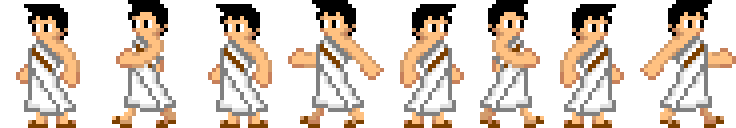
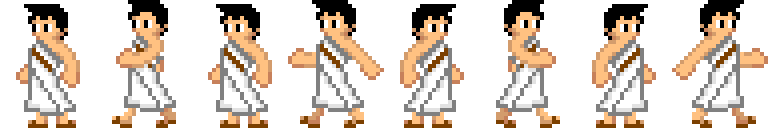
Final Sprite sheet and WORKING CHARACTER MOVEMENT!!!

diff --git a/js/game.js b/js/game.js
@@ -25,8 +25,9 @@ window.onload = function() {
 
 //Preload function, where we can load all the assets that will be used
   function preload(){
-	  game.load.spritesheet('player', 'assets/Character.png', 25, 36); //Player sprite
-    game.load.image('bg', 'assets/background1colour.png');    //background with colour
+	  game.load.spritesheet('player', 'assets/Character.png', 96, 128); //Player sprite
+    game.load.spritesheet('MenuP', 'assets/Character.png', 96, 128);
+    game.load.image('bg', 'assets/bg1.1colour.png');    //background with colour
     game.load.image('button', 'assets/button.png'); //Start button
     game.load.image('menu', 'assets/menu.png'); //Menu background
     game.load.image('rock', 'assets/rock.png'); //rock
@@ -58,13 +59,13 @@ window.onload = function() {
     'jump': Phaser.KeyCode.W,
     'left': Phaser.KeyCode.A,
     'right': Phaser.KeyCode.D,
-    'crouch': Phaser.KeyCode.S
+    'crouch': Phaser.KeyCode.S,
     'pause': Phaser.KeyCode.SPACEBAR
   }
 );
-player.animations.add('left', [0,1,2], 10, true);
+player.animations.add('left', [0,1,2,3], 8, true);
 //player.animations.add('right', [5,6,7,8], 10, true
-player.animations.add('right', [4,5,6], 10, true);
+player.animations.add('right', [4,5,6,7], 8, true);
 } //END of create
 
 //Update function, runs every frame
@@ -72,9 +73,9 @@ player.animations.add('right', [4,5,6], 10, true);
 
  if(gameState == 0) {  //Game menu code
       //Animate the player moving across the bottom of the screen
-      player.x++; //Move the player right
-      if (player.x > game.world.width) {  //If the player has moved off the right edge of the screen
-        player.x = -48; //Place the player just to the left of the screen
+      MenuP.x++; //Move the player right
+      if (MenuP.x > game.world.width) {  //If the player has moved off the right edge of the screen
+        MenuP.x = -48; //Place the player just to the left of the screen
       }
     } else if(gameState == 1) {  //Game code
 
@@ -128,13 +129,18 @@ if(controls.left.isDown){
     text.anchor.setTo(0.5,0.5);
     environmentGroup.add(text);
 
+//note this is a test sprite (Do not remove or use)
+    //temp = game.add.sprite(50,50,'player');
+    //temp.animations.add('left', [1,2,3,4,5,6,7], 5, true);
+    //temp.animations.play('left');
+
     //Do some initial player set up
-    player = game.add.sprite(-48, game.world.height-125, 'player');
+    MenuP = game.add.sprite(-48, game.world.height-125, 'player');
     //player.body.collideWorldBounds = true;
     //Add animation sequences to the player object
-    player.animations.add('right', [4,5,6], 10, true);
-    player.animations.play('right');  //Start playing the 'right' animation
-    playerGroup.add(player);  //Add the player to the player group
+    MenuP.animations.add('right', [4,5,6,7], 5, true);
+    MenuP.animations.play('right');  //Start playing the 'right' animation
+    MenuPGroup.add(MenuP);  //Add the player to the player group
   } //end of loadMenu
 
   function loadLevelOne(){
